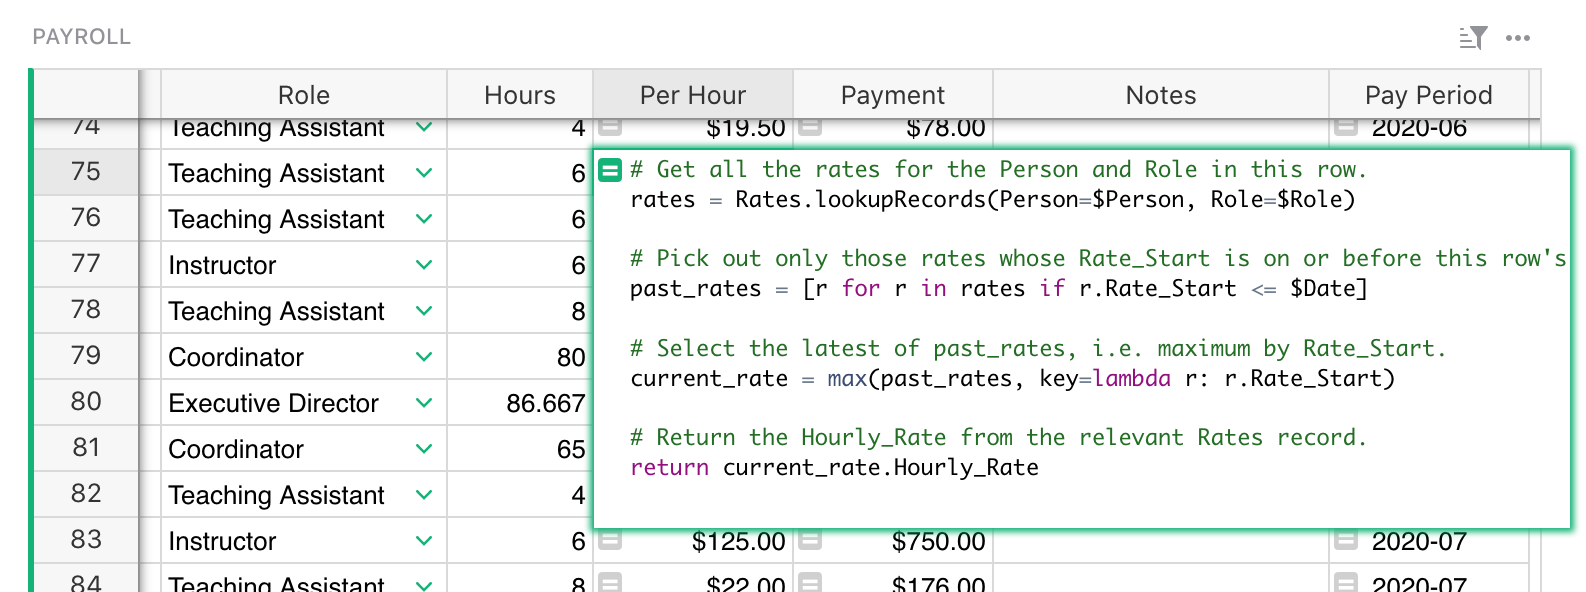
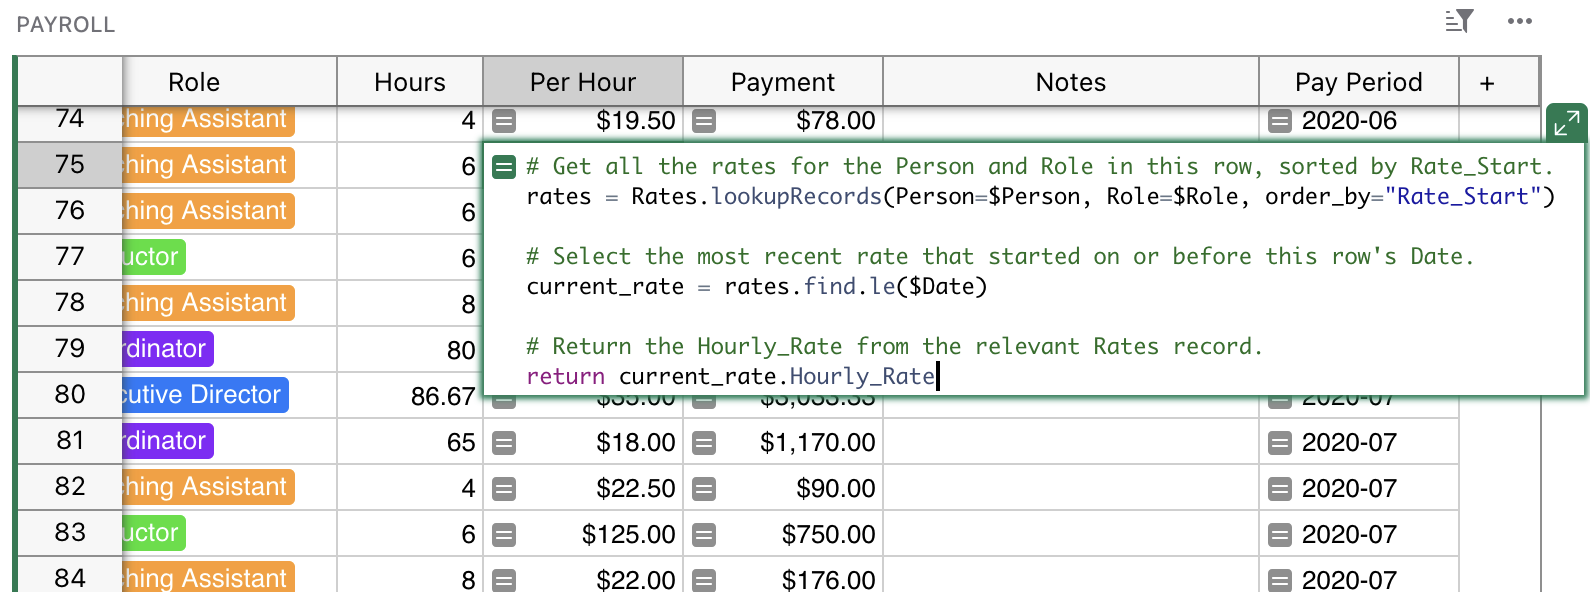
Update payroll tutorial to use the recommended 'ordered lookups' methods

Changed region(s): [[0.0, 0.0, 1.0, 1.0]]

diff --git a/help/en/docs/examples/2020-09-payroll.md b/help/en/docs/examples/2020-09-payroll.md
@@ -103,37 +103,38 @@ any cell in the `Per Hour` column, and hit <code class="keys">*Enter*</code>.
 <span class="screenshot-large">*![Rate Lookup Formula](../examples/images/2020-09-payroll/rate-lookup-formula.png)*</span>
 {: .screenshot-half }
 
-The formula you see is an involved Python function, but it is intentionally broken up into bits,
+The formula you see is a multi-step Python function. It is intentionally broken up into bits,
 with comments explaining what each line does:
 
 ```python
-# Get all the rates for the Person and Role in this row.
-rates = Rates.lookupRecords(Person=$Person, Role=$Role)
+# Get all the rates for the Person and Role in this row, sorted by Rate_Start.
+rates = Rates.lookupRecords(Person=$Person, Role=$Role, order_by="Rate_Start")
 
-# Pick out only those rates whose Rate_Start is on or before this row's Date.
-past_rates = [r for r in rates if r.Rate_Start <= $Date]
-
-# Select the latest of past_rates, i.e. maximum by Rate_Start.
-current_rate = max(past_rates, key=lambda r: r.Rate_Start)
+# Select the most recent rate that started on or before this row's Date.
+current_rate = rates.find.le($Date)
 
 # Return the Hourly_Rate from the relevant Rates record.
 return current_rate.Hourly_Rate
 ```
 
-(If this seems too complicated, good luck trying to achieve the same in a traditional
-spreadsheet!)
+Read the comments in that code to understand the steps. The second step uses the `find.le` method,
+one of several available for [ordered lookups](../functions.md#find_).
+It is simpler and more efficient than other ways to find the correct rate.
 
-Read the comments in that code to understand the steps. For those who know Python, it may already
-make perfect sense. For those who don’t, here are the relevant links to Grist and Python
-documentation:
+This same formula could be written without comments and more concisely:
 
-- [lookupRecords](https://support.getgrist.com/functions/#lookuprecords):
-  how we look up all rates for the given person and role.
-- [list comprehensions](https://docs.python.org/3/tutorial/datastructures.html#list-comprehensions):
-  how we filter for only those rates with an earlier `Rate_Start`.
-- [max function](https://docs.python.org/3/library/functions.html#max):
-  how we choose the rate record with the latest `Rate_Start`.
-- [.Field](https://support.getgrist.com/functions/#_field): how we get the `Hourly_Rate` field
+```python
+rates = Rates.lookupRecords(Person=$Person, Role=$Role, order_by="Rate_Start")
+rates.find.le($Date).Hourly_Rate
+```
+
+To learn more about the parts of this formula, here are the relevant documentation links:
+
+- [lookupRecords](../functions.md#lookuprecords):
+  how we look up all rates for the given person and role, and sort them.
+- [.find.le](../functions.md#find_):
+  how we find look up the closest rate that applies to the current date.
+- [.Field](../functions.md#_field): how we get the `Hourly_Rate` field
   from the rate record.
 
 This formula is also a good illustration of how helpful it is to have Python available, along with
